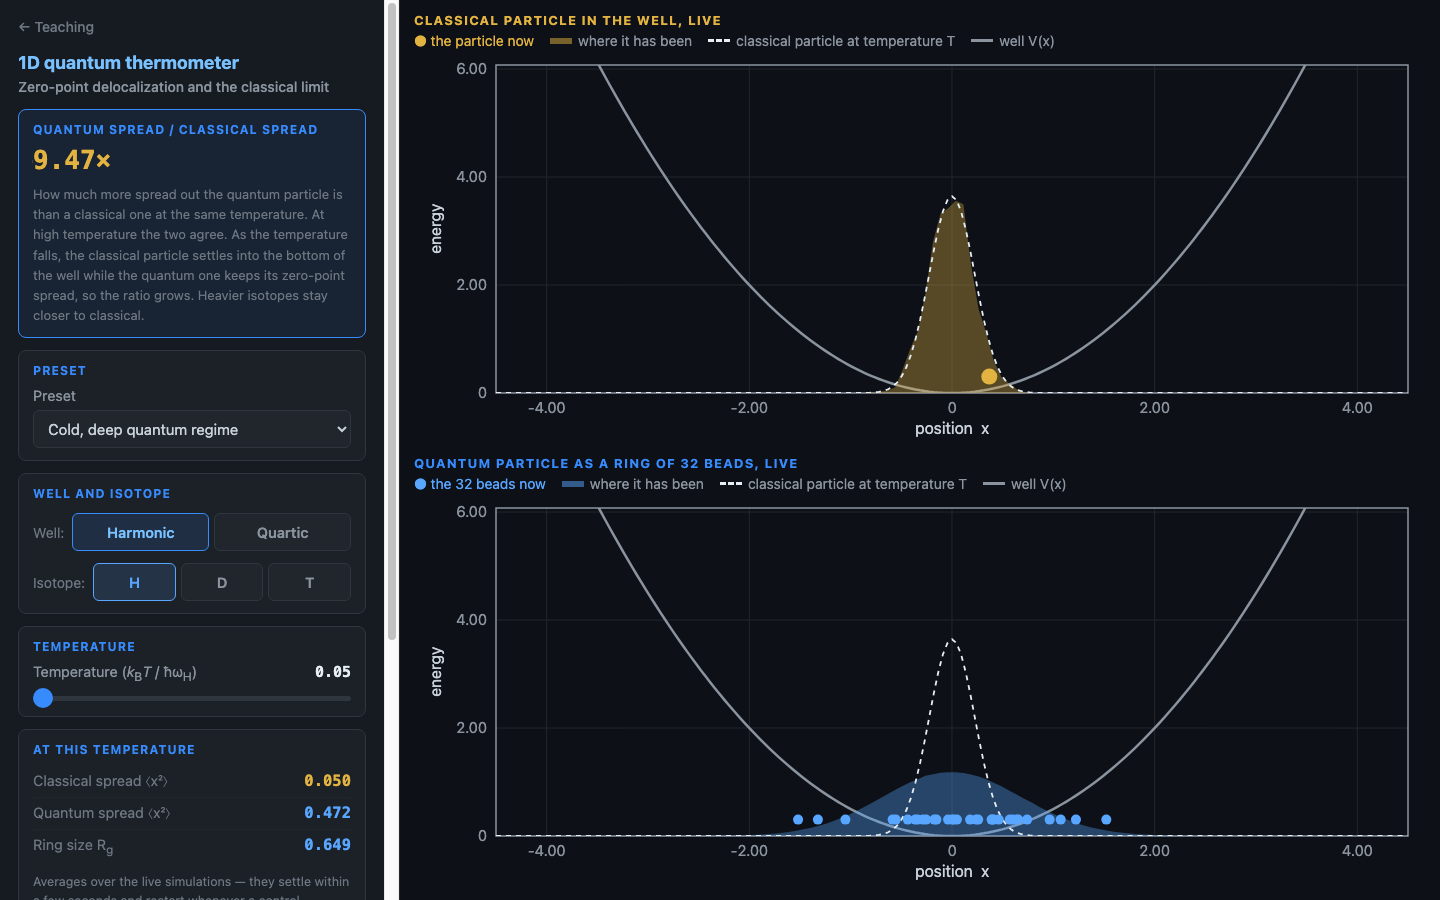
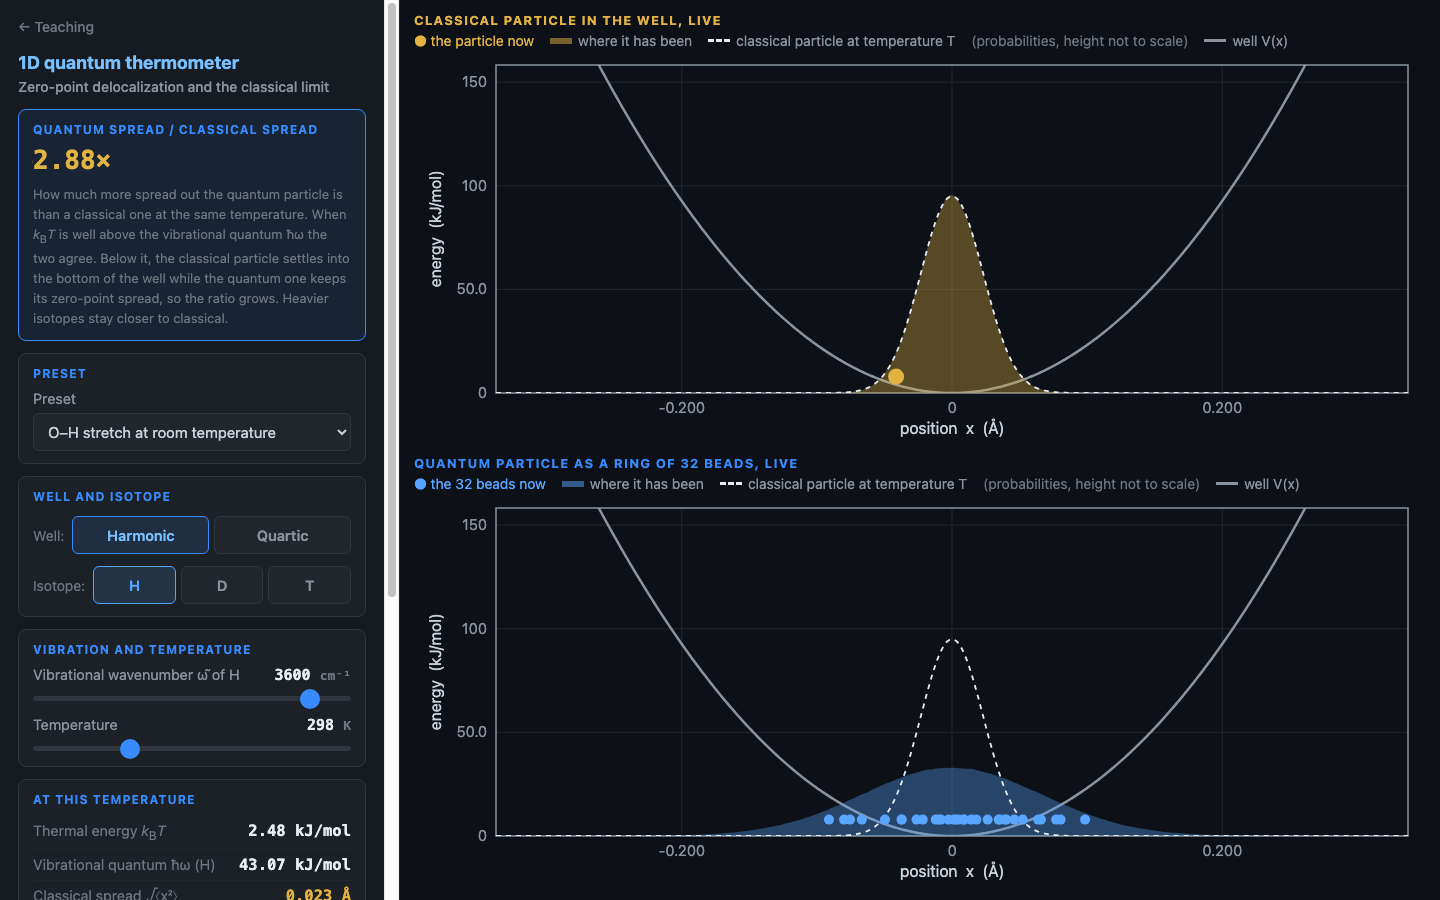
feat(thermometer): physical units via an H vibrational wavenumber slider
A new slider sets the H vibrational wavenumber (100-4000 cm^-1), which
fixes the well; D and T share its force constant. Temperature is now in
kelvin (10-1000 K), positions in Å, energies in kJ/mol, and spreads are
RMS displacements in Å. New readouts compare k_BT with the vibrational
quantum of the selected isotope.

The simulations still run in reduced units and are converted only for
display. The x range adapts to the larger of the zero-point and thermal
spread. Below k_BT = 0.05 hbar*omega the ring (32 beads) is simulated at
that temperature, where every isotope is already in its ground state to
better than 0.01%; the app says so. Presets: O-H stretch at 298 K and at
1000 K, a bending mode, a low-frequency mode, and the quartic well.

Checked against exact harmonic results (e.g. O-H at 298 K: quantum
0.067 Å vs 0.068, classical 0.023 vs 0.023); 60 fps.

diff --git a/apps/nqe_thermometer.html b/apps/nqe_thermometer.html
@@ -28,10 +28,11 @@
     <div class="rate-big" id="ratio">—</div>
     <p class="note" style="margin-top:8px;border:none;padding:0">
       How much more spread out the quantum particle is than a classical one at
-      the same temperature. At high temperature the two agree. As the
-      temperature falls, the classical particle settles into the bottom of the
-      well while the quantum one keeps its zero-point spread, so the ratio
-      grows. Heavier isotopes stay closer to classical.
+      the same temperature. When <i>k</i><sub>B</sub><i>T</i> is well above
+      the vibrational quantum &#295;&omega; the two agree. Below it, the
+      classical particle settles into the bottom of the well while the quantum
+      one keeps its zero-point spread, so the ratio grows. Heavier isotopes
+      stay closer to classical.
     </p>
   </div>
 
@@ -47,7 +48,7 @@
   </div>
 
   <div class="card">
-    <span class="card-label">Temperature</span>
+    <span class="card-label">Vibration and temperature</span>
     <div id="slider-box"></div>
   </div>
 
@@ -58,15 +59,16 @@
       Averages over the live simulations &mdash; they settle within a few
       seconds and restart whenever a control changes.
     </p>
+    <p class="note" id="gs-note" style="margin-top:6px;border:none;padding:0;font-size:12.5px;display:none"></p>
   </div>
 
   <div class="note">
-    Temperature is given in units of &#295;&omega;<sub>H</sub>/<i>k</i><sub>B</sub>,
-    the harmonic well's energy quantum for hydrogen. Below about 0.3 quantum
-    effects dominate; above about 1 the particle is nearly classical.
-    In the panels, energies are in the same units and positions in
-    units of &radic;(&#295;/<i>m</i><sub>H</sub>&omega;<sub>H</sub>), the
-    length scale of hydrogen's zero-point motion in the harmonic well.
+    The well is set by the vibrational wavenumber of H. D and T feel the same
+    force constant, so they vibrate at &omega;&#771;/&radic;2 and
+    &omega;&#771;/&radic;3. Quantum effects dominate when
+    <i>k</i><sub>B</sub><i>T</i> is below about a third of &#295;&omega;; well
+    above &#295;&omega; the particle is nearly classical. For the quartic
+    well, &omega;&#771; sets the energy and length scales in the same way.
   </div>
 
   <div class="note">
@@ -96,36 +98,57 @@ import { createSampler, createClassicalSampler, ringStats, potential } from '../
 import { createPlot } from '../js/nqe/plot.js';
 import { slider, segmented, presetSelect, hashState, onResize, ISOTOPE }
   from '../js/nqe/ui.js';
-import { MASS as NUCLEAR_MASS } from '../js/nqe/units.js';
+import * as U from '../js/nqe/units.js';
 
-// Only the isotope mass *ratios* matter here (everything is normalized to
-// H = 1), so derive them from the same bare-nucleus masses the solver-based
-// apps use, rather than maintaining a separate hand-typed approximation.
-const MASS = {
-  H: 1,
-  D: NUCLEAR_MASS.D / NUCLEAR_MASS.H,
-  T: NUCLEAR_MASS.T / NUCLEAR_MASS.H,
-};
-const K = 1;               // fixed well stiffness (harmonic); tuned quartic stiffness below
+// The simulations run in reduced units (hbar = kB = m_H = 1, harmonic omega_H = 1)
+// and are converted to physical units only for display: the H vibrational
+// wavenumber sets the energy unit hbar*omega_H and the length unit
+// sqrt(hbar / m_H omega_H); temperature enters as T* = kB T / hbar*omega_H.
+// Only isotope mass *ratios* matter inside the simulation.
+const MASS = { H: 1, D: U.MASS.D / U.MASS.H, T: U.MASS.T / U.MASS.H };
+const K = 1;               // harmonic well in reduced units; tuned quartic stiffness below
 const K_QUARTIC = 0.35;
-const TMIN = 0.05, TMAX = 3.0;
-const X_MAX = { harmonic: 4.5, quartic: 3.0 };   // fixed per well so temperatures and isotopes compare
+// 32 beads are accurate down to T* ~ 0.05; below that every isotope is in its
+// ground state to better than 0.01%, so the ring is simulated at T* = 0.05.
+const TQ_MIN = 0.05;
 
 const PRESETS = {
-  cold: { name: 'Cold, deep quantum regime', T: 0.05, kind: 'harmonic' },
-  warm: { name: 'Warm, near-classical', T: 2.1, kind: 'harmonic' },
-  quartic: { name: 'Quartic well', T: 0.35, kind: 'quartic' },
+  oh:    { name: 'O–H stretch at room temperature',       w: 3600, TK: 298,  kind: 'harmonic' },
+  ohhot: { name: 'O–H stretch at 1000 K',                  w: 3600, TK: 1000, kind: 'harmonic' },
+  bend:  { name: 'Bending mode at room temperature',       w: 1500, TK: 298,  kind: 'harmonic' },
+  soft:  { name: 'Low-frequency mode at room temperature', w: 200,  TK: 298,  kind: 'harmonic' },
+  quartic: { name: 'Quartic well at room temperature',     w: 1000, TK: 298,  kind: 'quartic' },
 };
-const P = Object.assign({ preset: 'cold', m: 'H' }, PRESETS.cold);
+const P = Object.assign({ preset: 'oh', m: 'H' }, PRESETS.oh);
 Object.assign(P, hashState.read() || {});
+delete P.name;
 
 const kFor = (kind) => (kind === 'quartic' ? K_QUARTIC : K);
 // The classical regime is gold throughout, as in "Proton in a potential".
 const CLASSICAL = '#e3b341';
 const reducedMotion = matchMedia('(prefers-reduced-motion: reduce)').matches;
 
+/** Physical scales for the current settings. */
+function scales() {
+  const wAu = U.cmToHartree(P.w);                    // hbar*omega_H in hartree
+  const Tstar = U.kT(P.TK) / wAu;
+  return {
+    Tstar,
+    Tq: Math.max(Tstar, TQ_MIN),
+    eKJ: U.hartreeToKJmol(wAu),                       // energy unit, kJ/mol
+    lenA: U.bohrToAng(1 / Math.sqrt(U.MASS.H * wAu)), // length unit, Å
+    groundK: (TQ_MIN * wAu) / U.KB_HARTREE,           // below this the ring is clamped
+  };
+}
+/** Half-width of the plotted range (reduced units): zero-point or thermal spread, whichever is larger. */
+function xRange(kind, Tstar) {
+  return kind === 'quartic'
+    ? Math.max(2.5, 2.2 * (Tstar / K_QUARTIC) ** 0.25)
+    : Math.max(3.5, 4 * Math.sqrt(Tstar));
+}
+
 // ── live simulations: stepped every frame, with running averages and histograms ──
-const NBINS = 120;
+const NBINS = 200;
 const BURN_IN_FRAMES = 15;
 // Enough steps per frame (~2 ms in all) for both averages to settle within
 // seconds: the ring drifts slowly at high T, and a single classical particle
@@ -136,16 +159,17 @@ const Q_STEPS = 200, C_STEPS = 3000;
 function newRun(sampler) {
   return { sampler, hist: new Float64Array(NBINS), nHist: 0, sumX2: 0, sumRg2: 0, nAvg: 0 };
 }
-let Q = null, C = null, frameNo = 0;
+let Q = null, C = null, S = null, xMax = 1, frameNo = 0;
 function resetLive() {
-  const opts = { kind: P.kind, k: kFor(P.kind), T: P.T, mass: MASS[P.m] };
-  Q = newRun(createSampler({ ...opts, N: 32, seed: 11, centroidMobility: Math.max(1, 16 * P.T) }));
-  C = newRun(createClassicalSampler({ ...opts, seed: 5 }));
+  S = scales();
+  xMax = xRange(P.kind, S.Tstar);
+  const opts = { kind: P.kind, k: kFor(P.kind), mass: MASS[P.m] };
+  Q = newRun(createSampler({ ...opts, T: S.Tq, N: 32, seed: 11, centroidMobility: Math.max(1, 16 * S.Tq) }));
+  C = newRun(createClassicalSampler({ ...opts, T: S.Tstar, seed: 5 }));
   frameNo = 0;
 }
 
 function advance(run, steps) {
-  const xMax = X_MAX[P.kind];
   for (let s = 0; s < steps; s++) {
     run.sampler.step();
     if (frameNo < BURN_IN_FRAMES) continue;
@@ -161,8 +185,8 @@ function advance(run, steps) {
 
 // ── controls ───────────────────────────────────────────────────
 const preset = presetSelect(PRESETS, (key, p) => {
-  Object.assign(P, { T: p.T, kind: p.kind, preset: key });
-  sT.set(P.T); kind.set(P.kind);
+  Object.assign(P, { w: p.w, TK: p.TK, kind: p.kind, preset: key });
+  sW.set(P.w); sT.set(P.TK); kind.set(P.kind);
   changed();
 });
 preset.set(P.preset);
@@ -183,21 +207,25 @@ const mass = segmented({
 });
 document.getElementById('mass-box').appendChild(mass.el);
 
-const sT = slider({ label: 'Temperature  (<i>k</i><sub>B</sub><i>T</i> / &#295;&omega;<sub>H</sub>)',
-  min: TMIN, max: TMAX, step: 0.01, value: P.T,
-  unit: '', decimals: 2, onInput: (v) => touch('T', v) });
-document.getElementById('slider-box').appendChild(sT.el);
+const sW = slider({ label: 'Vibrational wavenumber &omega;&#771; of H',
+  min: 100, max: 4000, step: 10, value: P.w,
+  unit: 'cm⁻¹', decimals: 0, onInput: (v) => touch('w', v) });
+const sT = slider({ label: 'Temperature',
+  min: 10, max: 1000, step: 1, value: P.TK,
+  unit: 'K', decimals: 0, onInput: (v) => touch('TK', v) });
+document.getElementById('slider-box').append(sW.el, sT.el);
 
 const pCl = createPlot(document.getElementById('cv-cl'),
-  { xlabel: 'position  x', ylabel: 'energy', pad: { l: 82, b: 50 } });
+  { xlabel: 'position  x  (Å)', ylabel: 'energy  (kJ/mol)', pad: { l: 82, b: 50 } });
 const pQ = createPlot(document.getElementById('cv-q'),
-  { xlabel: 'position  x', ylabel: 'energy', pad: { l: 82, b: 50 } });
+  { xlabel: 'position  x  (Å)', ylabel: 'energy  (kJ/mol)', pad: { l: 82, b: 50 } });
 
 const row = (k, v, cls = '') =>
   `<div class="r-row"><span class="r-key">${k}</span><span class="r-val ${cls}">${v}</span></div>`;
 
 function classicalDensity(xs, kind, k, T) {
-  const w = xs.map((x) => Math.exp(-potential(x, { kind, k }) / T));
+  const vmin = Math.min(...xs.map((x) => potential(x, { kind, k })));
+  const w = xs.map((x) => Math.exp(-(potential(x, { kind, k }) - vmin) / T));
   const dx = xs[1] - xs[0], Z = w.reduce((a, b) => a + b, 0) * dx;
   return w.map((v) => v / Z);
 }
@@ -206,13 +234,14 @@ function classicalDensity(xs, kind, k, T) {
  * One panel: the well, the histogram of where the run's particle (or beads)
  * have been, the classical Boltzmann density, and the particle(s) now. Both
  * panels share axes and a vertical scale set by the classical curve alone,
- * which is fixed, so they compare directly.
+ * which is fixed, so they compare directly. Computed in reduced units and
+ * drawn in Å and kJ/mol.
  */
 function drawPanel(plot, run, markerR, col) {
-  const k = kFor(P.kind), xMax = X_MAX[P.kind];
+  const k = kFor(P.kind), L = S.lenA, E = S.eKJ;
   const xs = [], vs = [];
-  for (let i = 0; i <= 200; i++) {
-    const x = -xMax + (2 * xMax * i) / 200;
+  for (let i = 0; i <= 800; i++) {
+    const x = -xMax + (2 * xMax * i) / 800;
     xs.push(x);
     vs.push(potential(x, { kind: P.kind, k }));
   }
@@ -220,19 +249,20 @@ function drawPanel(plot, run, markerR, col) {
   const bw = (2 * xMax) / NBINS;
   const hx = [], hy = [];
   for (let b = 0; b < NBINS; b++) {
-    hx.push(-xMax + (b + 0.5) * bw);
+    hx.push((-xMax + (b + 0.5) * bw) * L);
     hy.push(run.nHist ? run.hist[b] / (run.nHist * bw) : 0);
   }
-  const cl = classicalDensity(xs, P.kind, k, P.T);
+  const cl = classicalDensity(xs, P.kind, k, S.Tstar);
   // Headroom above the classical peak lets a taller quantum peak (quartic) fit.
   const scale = (0.6 * yTop) / Math.max(...cl);
 
-  plot.clear().setLimits([-xMax, xMax], [0, yTop])
-    .line(xs, vs, { color: '#8b949e', width: 2.5 })
-    .fillBetween(hx, hy.map((v) => v * scale), 0, { color: col, alpha: 0.35 })
-    .line(xs, cl.map((v) => v * scale), { color: '#e6edf3', width: 1.8, dash: [5, 5] });
-  const y = 0.05 * yTop;
-  for (const x of run.sampler.x) plot.marker(x, y, { color: col, r: markerR });
+  const xA = xs.map((x) => x * L);
+  plot.clear().setLimits([-xMax * L, xMax * L], [0, yTop * E])
+    .line(xA, vs.map((v) => v * E), { color: '#8b949e', width: 2.5 })
+    .fillBetween(hx, hy.map((v) => v * scale * E), 0, { color: col, alpha: 0.35 })
+    .line(xA, cl.map((v) => v * scale * E), { color: '#e6edf3', width: 1.8, dash: [5, 5] });
+  const y = 0.05 * yTop * E;
+  for (const x of run.sampler.x) plot.marker(x * L, y, { color: col, r: markerR });
   plot.draw();
 }
 
@@ -240,22 +270,38 @@ function drawLegends() {
   const rest = (col) =>
     `<span><i style="border-color:${col};border-top-width:6px;opacity:.5"></i>where it has been</span>` +
     `<span><i style="border-color:#e6edf3;border-top-style:dashed"></i>classical particle at temperature T</span>` +
+    `<span style="color:#6e7681">(probabilities, height not to scale)</span>` +
     `<span><i style="border-color:#8b949e"></i>well V(x)</span>`;
   const q = ISOTOPE[P.m].color;
   document.getElementById('leg-cl').innerHTML = `<span style="color:${CLASSICAL}">● the particle now</span>` + rest(CLASSICAL);
   document.getElementById('leg-q').innerHTML = `<span style="color:${q}">● the 32 beads now</span>` + rest(q);
+
+  const gs = document.getElementById('gs-note');
+  const clamped = S.Tstar < TQ_MIN;
+  gs.style.display = clamped ? '' : 'none';
+  gs.textContent = clamped
+    ? `Below ${S.groundK.toFixed(0)} K this quantum particle is in its ground state; the ring is ` +
+      `simulated at ${S.groundK.toFixed(0)} K, which gives the same result.`
+    : '';
 }
 
 function drawReadout() {
   const cls = P.m === 'D' ? 'd' : P.m === 'T' ? '' : 'h';
-  const cX2 = C.nAvg ? C.sumX2 / C.nAvg : null;
-  const qX2 = Q.nAvg ? Q.sumX2 / Q.nAvg : null;
+  const L = S.lenA;
+  const cR = C.nAvg ? Math.sqrt(C.sumX2 / C.nAvg) * L : null;
+  const qR = Q.nAvg ? Math.sqrt(Q.sumX2 / Q.nAvg) * L : null;
+  const kT = U.hartreeToKJmol(U.kT(P.TK));
+  const vib = P.kind === 'harmonic'
+    ? row(`Vibrational quantum &#295;&omega; (${P.m})`,
+        `${(S.eKJ / Math.sqrt(MASS[P.m])).toFixed(2)} kJ/mol`)
+    : '';
   document.getElementById('readout').innerHTML =
-    row('Classical spread &#10216;x&sup2;&#10217;', cX2 != null ? cX2.toFixed(3) : '…', 'gold') +
-    row('Quantum spread &#10216;x&sup2;&#10217;', qX2 != null ? qX2.toFixed(3) : '…', cls) +
-    row('Ring size R<sub>g</sub>', Q.nAvg ? Math.sqrt(Q.sumRg2 / Q.nAvg).toFixed(3) : '…', cls);
+    row('Thermal energy <i>k</i><sub>B</sub><i>T</i>', `${kT.toFixed(2)} kJ/mol`) + vib +
+    row('Classical spread &radic;&#10216;x&sup2;&#10217;', cR != null ? cR.toFixed(3) + ' Å' : '…', 'gold') +
+    row('Quantum spread &radic;&#10216;x&sup2;&#10217;', qR != null ? qR.toFixed(3) + ' Å' : '…', cls) +
+    row('Ring size R<sub>g</sub>', Q.nAvg ? (Math.sqrt(Q.sumRg2 / Q.nAvg) * L).toFixed(3) + ' Å' : '…', cls);
   document.getElementById('ratio').textContent =
-    cX2 && qX2 != null ? (qX2 / cX2).toFixed(2) + '×' : '…';
+    cR && qR != null ? (qR / cR).toFixed(2) + '×' : '…';
 }
 
 function frame() {

diff --git a/teaching.html b/teaching.html
@@ -315,12 +315,12 @@
             <h3>1D quantum thermometer</h3>
             <div class="meta">Zero-point delocalization &amp; the classical limit</div>
             <p>
-              A classical particle and a quantum particle in the same well at the same
-              temperature, both simulated live. The classical one is a single point and
-              settles into the bottom of the well as the temperature falls; the quantum
-              one is a ring of beads that keeps its zero-point spread. Where each has
-              been builds up its probability density, and the ratio of the two spreads
-              shows how far from classical the particle is.
+              A classical particle and a quantum particle in the same well, simulated
+              live. Set a vibrational wavenumber in cm<sup>&minus;1</sup> and a temperature
+              in kelvin, and compare where each is found, in &Aring;ngstr&ouml;m. The classical
+              one settles into the bottom of the well as the temperature falls; the quantum
+              one keeps its zero-point spread. An O&ndash;H stretch stays quantum even at
+              1000&nbsp;K.
             </p>
             <div class="links">
               <a href="apps/nqe_thermometer.html" target="_blank" rel="noopener">Launch app &#8599;</a>
